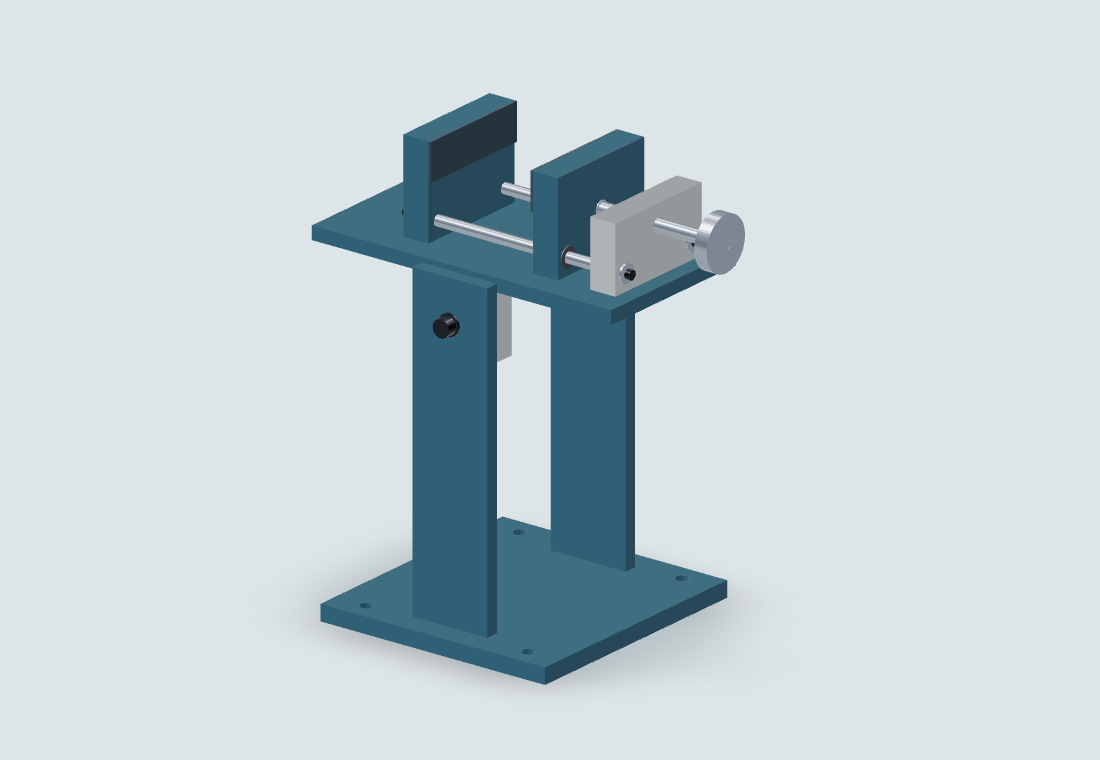
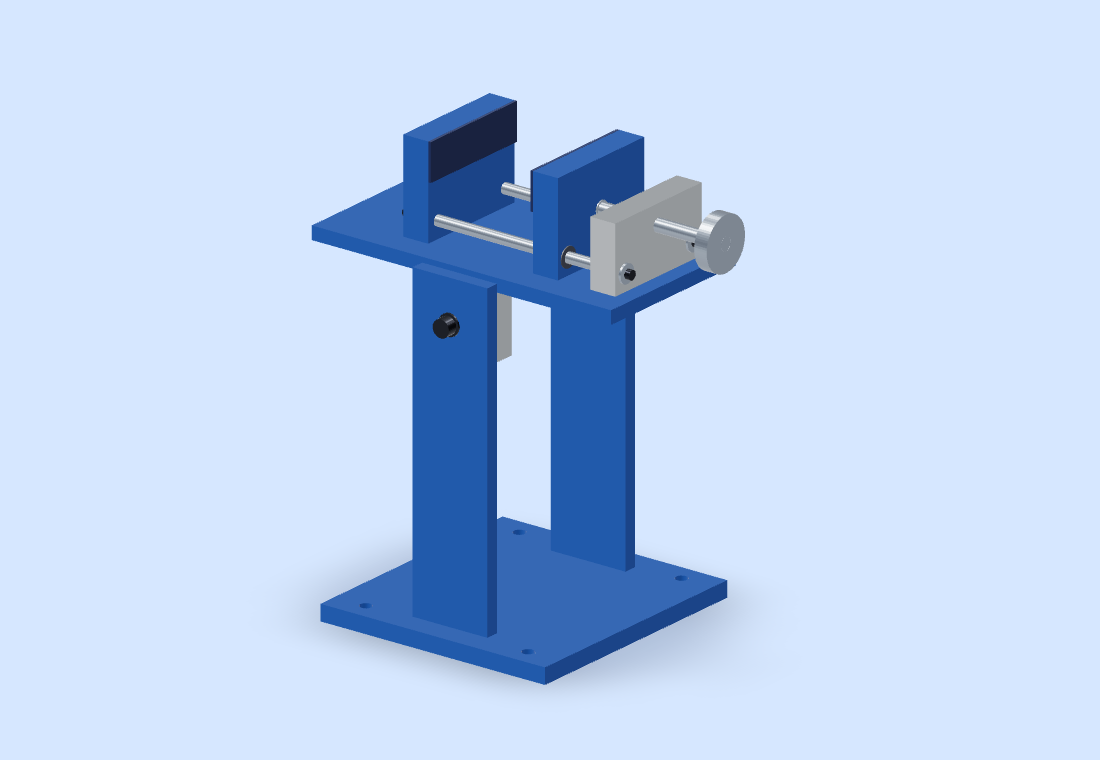
feat(ui): restore blue palette and light headers

Changed region(s): [[0.2782, 0.1211, 0.68, 0.9079]]

diff --git a/src/interface.css b/src/interface.css
@@ -6,14 +6,15 @@
 :root .button.primary {border-width:1px 1px 2px;}
 :root .button[aria-pressed=true],:root .filter-tabs button.selected {background:var(--primary);color:var(--on-primary);}
 :root .button.primary[aria-pressed=true] {background:var(--action);color:var(--on-action);}
-:root .site-header,:root .site-header.landing-header,:root .studio-header {background:var(--text);color:var(--panel);border-top:0;}
-:root .site-header nav button,:root .landing-header nav button {color:var(--panel);font-family:var(--font-body);font-size:var(--s-base);font-weight:600;}
+:root .site-header,:root .studio-header {background:var(--panel);color:var(--text);border-top:0;}
+:root .site-header.landing-header {background:var(--surface);color:var(--text);border-top:0;}
+:root .site-header nav button,:root .landing-header nav button {color:var(--text);font-family:var(--font-body);font-size:var(--s-base);font-weight:600;}
 :root .site-header nav button.active {background:var(--primary);color:var(--text);}
-:root .site-header>.button,:root .studio-header .button {background:var(--text);color:var(--panel);border-color:var(--primary);}
+:root .site-header>.button,:root .studio-header .button {background:var(--panel);color:var(--text);border-color:var(--border);}
 :root .site-header>.button:hover,:root .studio-header .button:hover {background:var(--primary);color:var(--text);}
-:root .site-header :focus-visible,:root .studio-header :focus-visible,:root .development-header :focus-visible {outline-color:var(--panel);}
+:root .site-header :focus-visible,:root .studio-header :focus-visible,:root .development-header :focus-visible {outline-color:var(--focus);}
 :root .landing-header .brand {text-transform:none;letter-spacing:0;font-size:var(--s-lg);}
-:root .studio-header .design-title>span {color:var(--primary);}
+:root .studio-header .design-title>span {color:var(--muted);}
 :root .studio-header .connection-dot {outline:2px solid var(--panel);outline-offset:1px;}
 :root .landing-copy {justify-content:flex-start;bottom:auto;}
 :root .landing-copy h1 {text-transform:none;font-weight:700;letter-spacing:-.035em;}
@@ -29,9 +30,9 @@
 :root .spatial-selection-actions>.button:hover,:root .spatial-selection-list>summary:hover {border-color:var(--border);}
 :root .panel-visibility-controls .button[aria-expanded=false] {border-color:transparent;}
 :root .development {--page-inset:clamp(16px,3vw,48px);padding:0 var(--page-inset) 60px;}
-:root .development-header {max-width:none;background:var(--text);color:var(--panel);margin:0 calc(-1 * var(--page-inset));padding:24px var(--page-inset);}
-:root .development-header p {color:var(--primary);}
-:root .development-header .button {background:var(--text);color:var(--panel);border-color:var(--primary);}
+:root .development-header {max-width:none;background:var(--panel);color:var(--text);margin:0 calc(-1 * var(--page-inset));padding:24px var(--page-inset);}
+:root .development-header p {color:var(--muted);}
+:root .development-header .button {background:var(--panel);color:var(--text);border-color:var(--border);}
 :root .development-header .button:hover {background:var(--primary);color:var(--text);}
 :root .development-tabs {gap:8px;}
 :root .development-tabs button {border:1px solid transparent;border-radius:var(--radius);}
@@ -80,7 +81,7 @@
  :root .landing-header .brand {font-size:var(--s-sm);}
 }
 
-:root .site-header.landing-header>.button {color:var(--panel);background:var(--text);border-color:var(--primary);}
+:root .site-header.landing-header>.button {color:var(--text);background:var(--panel);border-color:var(--border);}
 :root .site-header.landing-header>.button:hover {color:var(--text);background:var(--primary);}
 :root .mobile-clear-selection,:root .mobile-selection-detail {display:none;}
 @media(max-width:820px){
@@ -96,3 +97,12 @@
  :root .studio-main.is-design.mobile-canvas>.scene-panel>.model-canvas {flex:1;min-height:0;}
  :root .studio-main.is-design.mobile-canvas>.scene-panel>.model-canvas>.model-canvas-viewport {height:auto!important;min-height:280px;flex:1;}
 }
+
+/* Task accents are separate from engineering and status colors. */
+:root .button.action-secondary,:root .landing-actions>[data-testid="landing-browse"] {background:var(--secondary);color:var(--on-secondary);border-color:var(--secondary-ink);}
+:root .button.action-secondary:hover,:root .landing-actions>[data-testid="landing-browse"]:hover {background:var(--secondary-ink);color:var(--panel);border-color:var(--secondary-ink);}
+:root .text-edit {color:var(--secondary-ink);}
+:root .surface-build,:root .landing-build-sheet {background:var(--tertiary);color:var(--on-tertiary);border-color:var(--tertiary-ink);}
+:root .text-build,:root .landing-build-sheet>header strong {color:var(--tertiary-ink);}
+:root .button.action-share {background:var(--tertiary);color:var(--tertiary-ink);border-color:var(--tertiary-ink);}
+:root .button.action-share:hover {background:var(--tertiary-ink);color:var(--panel);border-color:var(--tertiary-ink);}

diff --git a/src/Studio.tsx b/src/Studio.tsx
@@ -492,7 +492,7 @@ export default function Studio({
           >
             <MessageSquare size={18} />
           </button>
-          <button className="button small" onClick={() => setShare(true)}>
+          <button className="button small action-share" onClick={() => setShare(true)}>
             <Share2 size={16} />
             <span>Share</span>
           </button>
@@ -635,7 +635,7 @@ export default function Studio({
         <aside className={"left-panel" + (selection && editorMode === "selection" ? " show-selection" : "")} id="studio-left-panel" onKeyDown={(event) => { if (event.key === "Escape" && !(event.target as HTMLElement).closest('[role="dialog"]')) { setLeftPanelOpen(false); setMobileEditor("canvas"); requestAnimationFrame(() => { const selectors = window.innerWidth <= 820 && tab === "design" ? '.mobile-editor-switch [data-panel="left"]' : '[aria-controls="studio-left-panel"]'; document.querySelector<HTMLButtonElement>(selectors)?.focus(); }); } }}>
           {tab === "design" ? (
             <>
-              {selection && <div className="inspector-tabs" role="group" aria-label="Selected part tools"><button className={"button small " + (editorMode === "selection" ? "primary" : "")} onClick={() => setEditorMode("selection")}>Part controls</button><button className={"button small " + (editorMode === "prompt" ? "primary" : "")} onClick={() => setEditorMode("prompt")}>Write a request</button></div>}
+              {selection && <div className="inspector-tabs" role="group" aria-label="Selected part tools"><button className={"button small " + (editorMode === "selection" ? "primary action-secondary" : "")} onClick={() => setEditorMode("selection")}>Part controls</button><button className={"button small " + (editorMode === "prompt" ? "primary action-secondary" : "")} onClick={() => setEditorMode("prompt")}>Write a request</button></div>}
               <div className="conversation-editor">
                 <div className="panel-intro">
                   <h2>What would you change?</h2>

diff --git a/src/components/ContextualGuide.tsx b/src/components/ContextualGuide.tsx
@@ -37,7 +37,7 @@ export default function ContextualGuide({ snapshot, selection, onPrompt, onPrevi
   const unavailable = !!disabled || context.stale || snapshot.role === "viewer";
   return <section className="contextual-guide" aria-label="Design guidance" style={{ border: `1px solid ${colors.border}`, borderRadius: 10, padding: 14, background: colors.panel }}>
     <div style={{ display: "flex", justifyContent: "space-between", alignItems: "center", gap: 10 }}>
-      <strong style={{ fontSize: "var(--s-sm)" }}>{context.parts.length === 1 ? context.parts[0].name : context.parts.length ? "Selected parts" : "Where to start"}</strong>
+      <strong className="text-edit" style={{ fontSize: "var(--s-sm)" }}>{context.parts.length === 1 ? context.parts[0].name : context.parts.length ? "Selected parts" : "Where to start"}</strong>
       <button type="button" className="button" aria-pressed={advanced} onClick={() => {
         setAdvanced(!advanced);
         try { localStorage.setItem("hardware-studio-guidance", !advanced ? "advanced" : "guided"); } catch { /* Browser storage is optional. */ }

diff --git a/src/styles.css b/src/styles.css
@@ -1,19 +1,25 @@
 :root {
-  --bg: #F2F3F3;
-  --surface: #DEE5E8;
-  --text: #253740;
-  --muted: #4C626D;
-  --border: #71858F;
-  --primary: #B8CFD8;
+  --bg: #F3F7FF;
+  --surface: #D6E7FF;
+  --text: #132344;
+  --muted: #405576;
+  --border: #627BA4;
+  --primary: #A2C7FF;
   --focus: #8B204B;
   --success: #166148;
   --warning: #725900;
   --danger: #AD233F;
   --white: #FFFFFF;
   --panel: #FFFFFF;
-  --action: #315E70;
-  --on-primary: #253740;
+  --action: #245BA8;
+  --on-primary: #132344;
   --on-action: #FFFFFF;
+  --secondary: var(--primary);
+  --secondary-ink: var(--action);
+  --on-secondary: var(--text);
+  --tertiary: var(--surface);
+  --tertiary-ink: var(--action);
+  --on-tertiary: var(--text);
   --line: color-mix(in srgb, var(--border) 24%, transparent);
   --subtle: color-mix(in srgb, var(--border) 10%, var(--bg));
   --font-body: "Source Sans 3", sans-serif;

diff --git a/src/lib/tokens.ts b/src/lib/tokens.ts
@@ -1,17 +1,27 @@
-export const colors = {
+const base = {
   "focus": "#8B204B",
   "success": "#166148",
   "warning": "#725900",
   "danger": "#AD233F",
   "white": "#FFFFFF",
-  "background": "#F2F3F3",
-  "surface": "#DEE5E8",
+  "background": "#F3F7FF",
+  "surface": "#D6E7FF",
   "panel": "#FFFFFF",
-  "text": "#253740",
-  "muted": "#4C626D",
-  "border": "#71858F",
-  "primary": "#B8CFD8",
-  "onPrimary": "#253740",
-  "action": "#315E70",
+  "text": "#132344",
+  "muted": "#405576",
+  "border": "#627BA4",
+  "primary": "#A2C7FF",
+  "onPrimary": "#132344",
+  "action": "#245BA8",
   "onAction": "#FFFFFF"
+};
+
+export const colors = {
+  ...base,
+  secondary: base.primary,
+  secondaryInk: base.action,
+  onSecondary: base.text,
+  tertiary: base.surface,
+  tertiaryInk: base.action,
+  onTertiary: base.text,
 };
